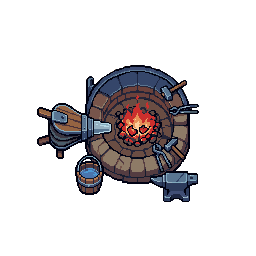
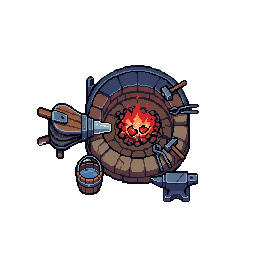
Key the checkerboard out of the regenerated forge sprite
The new forge art shipped with a baked 64 px checker and drop shadow at
2048 px and no alpha. Flood-fill the background from the border, drop the
shadow, and box-filter to the 256 px frame the rig declares. The anchor
(118, 202) already matches the cutout's bottom centre.

diff --git a/documentation/journals/assets_journal.md b/documentation/journals/assets_journal.md
@@ -2575,3 +2575,17 @@ while saying nothing about whether any of them were usable. It now asserts the
 constraint that actually matters: every rig in the pool exists, animates, and
 its sheet is `frames x frame width` across and `frame height` tall. That is
 precisely the check the original grid sheet would have failed.
+
+## Forge sprite keyed out (2026-09-09)
+
+The regenerated forge (`assets/terrain/facilities/forge.png`) arrived as a
+2048 px, 24-bit image with a fake checkerboard (64 px cells, greys 253 and
+215, not a regular parity pattern) and a soft bluish drop shadow baked in.
+A scratch script flood-filled from the border through checker-grey and
+shadow-grey pixels (the dark outline is the wall, so enclosed interior greys
+survive), zeroed their alpha, and box-filtered the result 8x with
+premultiplied alpha down to the 256 px frame the `forge` rig declares. The
+baked shadow was dropped to match the previous sprite; a variant keeping it
+as translucent black was produced but not shipped. Opaque bbox is
+(37, 64, 162 x 138), so the rig's anchor (118, 202) already sits at the
+bottom centre and was left alone.
